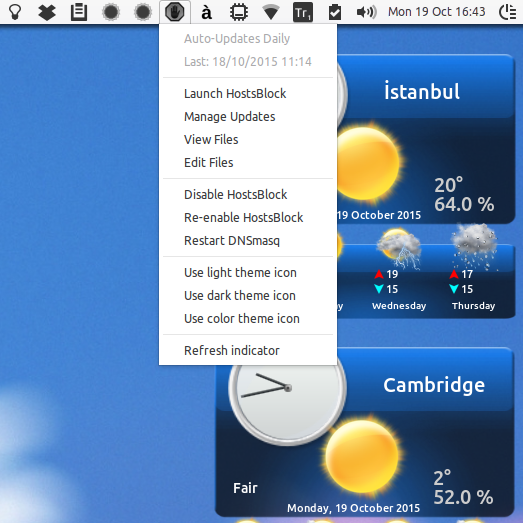
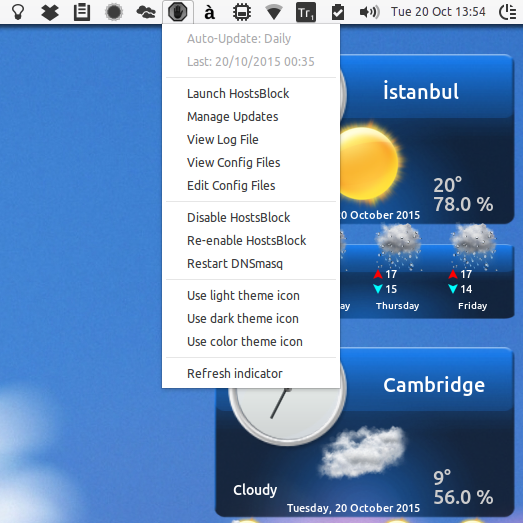
View Log separate menu item

diff --git a/src/indicator/README.md b/src/indicator/README.md
@@ -64,4 +64,4 @@ Info about some files
 
 5. The file "scheduler-gui" is a simple zenity-based script which checks all cron directories (/etc/cron.hourly,daily,weekly,monthly) for the file (or symlink) "hostsblock-launcher" (aka "launcher") to inform the user how hostsblock is scheduled to run, and asks if they would like to change it, and then implements the user's choice.
 
-6. The files "viewer-gui" and "editor-gui" are simple zenity-based scripts that allow the user to view/edit file(s) they choose from a list (/etc/hosts.block; /etc/hostsblock/hostsblock.conf,black.list,white.list; /var/log/hostsblock.log).
+6. The files "viewer-gui" and "editor-gui" are simple zenity-based scripts that allow the user to view/edit configuration file(s) they choose from a list (/etc/hosts.block; /etc/hostsblock/hostsblock.conf,black.list,white.list).
